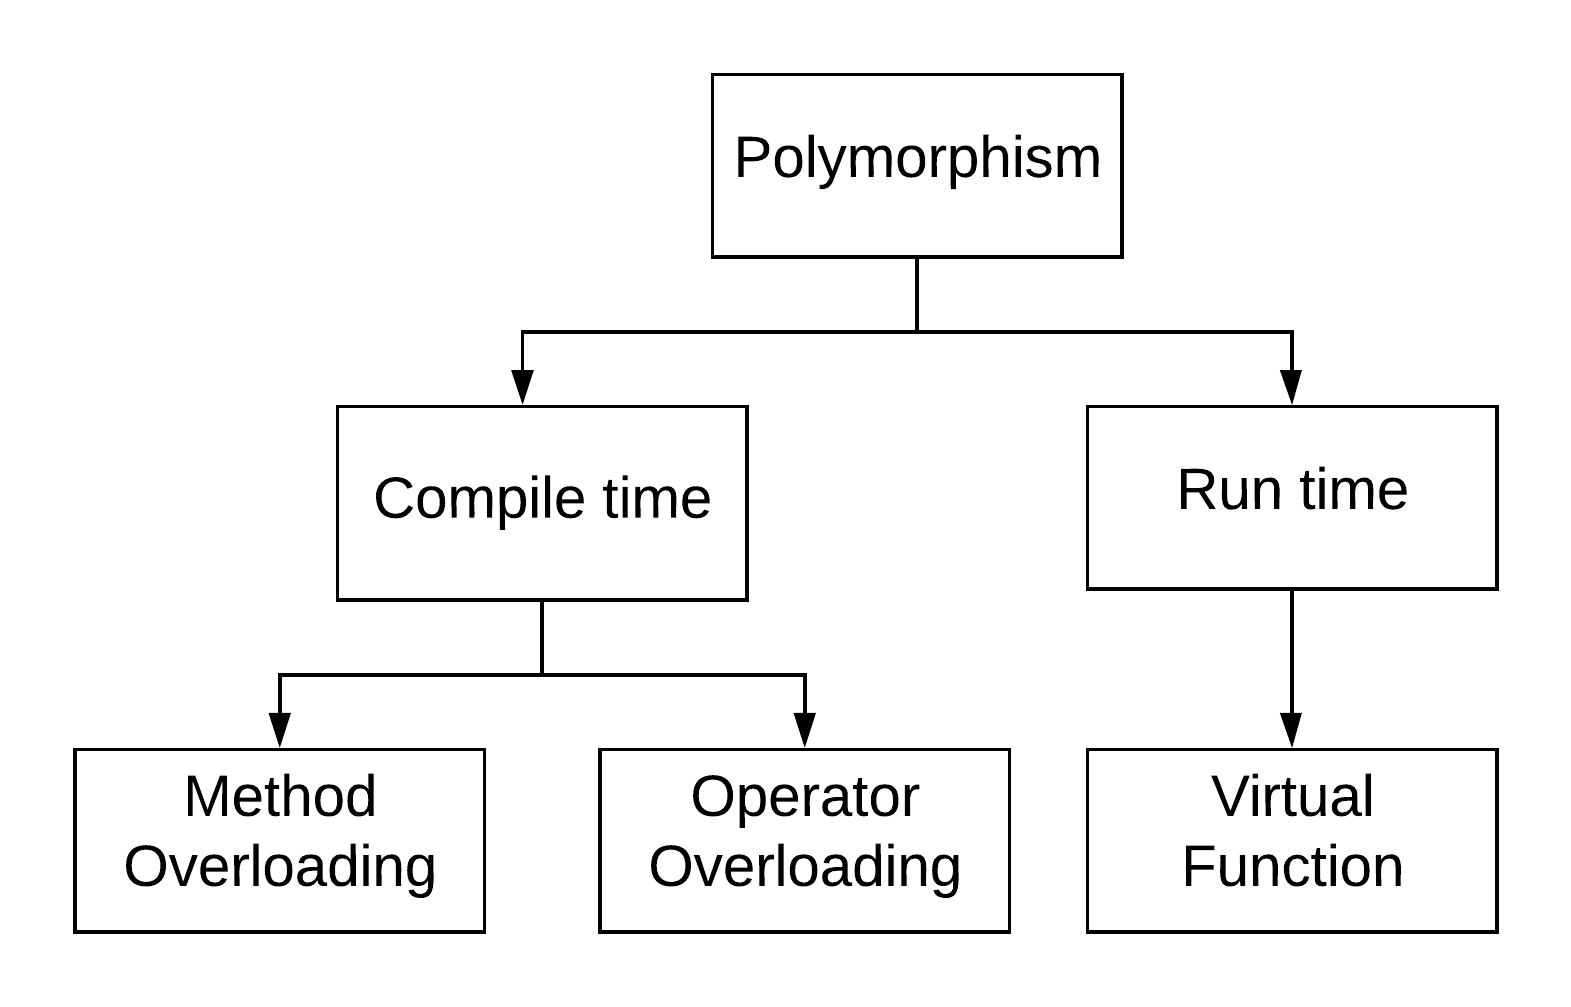
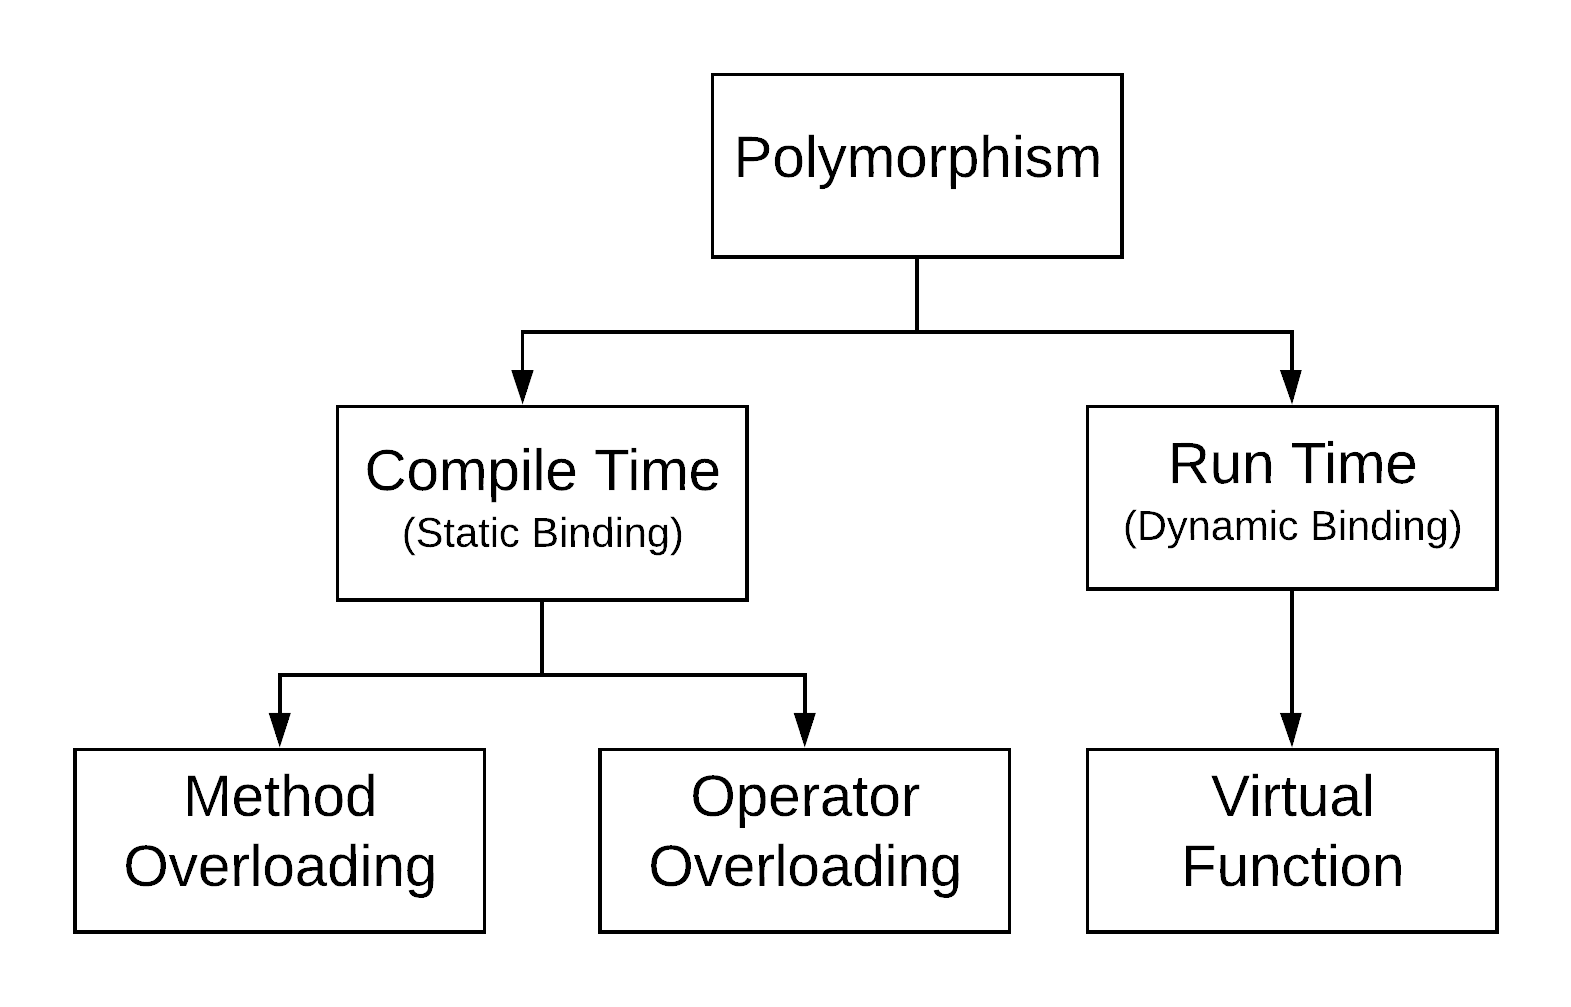
Add virtual function stuff

Changed region(s): [[0.2183, 0.431, 0.4679, 0.5541], [0.7174, 0.431, 0.9357, 0.5541], [0.156, 0.7696, 0.1871, 0.8004]]

diff --git a/lang/cpp/cpp-note.md b/lang/cpp/cpp-note.md
@@ -1,9 +1,14 @@
 # C++ Note
 
 ## Index
-* [Class](#class)
-  * [Constructor](#constructor)
-* [Polymorphism](#polymorphism)
+* [OOP](#oop)
+  * [Class](#class)
+    * [Constructor](#constructor)
+  * [Polymorphism](#polymorphism)
+    * [Polymorphism Structure](#polymorphism-structure)
+    * [Virtual Function](#virtual-function)
+      * [Pure Virtual Function and Abstract Class](#pure-virtual-function-and-abstract-class)
+      * [Virtual Destructor](#virtual-destructor)
 * [Container](#container)
   * [priority_queue](#priority_queue)
   * [map](#map)
@@ -26,8 +31,13 @@
 
 *** 
 
-## Class
-### Constructor
+## OOP
+OOP is the initials of the object-oriented programming. The three key ideas of OOP are:
+* **data abstraction**: separate the interface from implementation 
+* **inheritance**: model the relationships among similar types
+* **dynamic binding**: improve the flexibility
+### Class
+#### Constructor
 ```cpp
 class Test {
  private:
@@ -50,14 +60,33 @@ In the version 2, the class members are explicitly initialized in the constructo
 </br>
 Tips: develop a habit of using the constructor initializer list! It will avoid mistakes.
 
-***
 
-## Polymorphism
-Polymorphism means "many forms" derived from a Greek word. This is one of the key ideas of the Object Oriented Programming(OOP). </br>
-### Polymorphism Structure </br>
+### Polymorphism
+Polymorphism means "many forms" derived from a Greek word. This is one of the key ideas of the Object Oriented Programming(OOP). This is achieved by static(early) binding and dynamic(late) binding in C++. </br>
+#### Polymorphism Structure
 ![polymorphisom](./picture/polymorphism.png)
+#### Virtual Function
+Link: [GeeksforGeeks: Virtual Function in C++](https://www.geeksforgeeks.org/virtual-function-cpp/) </br>
+Virtual functions ensure that the correct function is called for an object, regardless of the type of reference (or pointer) used for function call. </br>
+Tips about virtual functions:
+  * Virtual functions cannot be `static` and also cannot be a `friend` function of another class.
+  * Virtual functions should be accessed using pointer or reference of base class type to achieve run time polymorphism.
+  * Virtual functions are not required to be overriden in the derived classes.
+##### Pure Virtual Function and Abstract Class
+```cpp
+class MyClass{
+ public:
+  virtual foo() = 0;
+};
+```
+The function *foo* is a pure virtual function(abstract functio) in *MyClass*. In this case, *MyClass* becomes an abstract class. </br>
+Tips about abstract classes:
+* Abstract classes cannot be instantiated.
+* A derived class will also be an abstract class if it does not redefine all pure virtual functions in the base class.
+##### Virtual Destructor
+A class should have a virtual destructor if it has a virtual function. This is to make sure that when the program delete a derived class using a pointer to the base class, the derived class can be deleted properly.
 
-### final specifier
+##### final specifier
 * Applied to a member function </br>
   `final` is placed right after the function name. </br>
   When used in a `virtual` function declaration or definition, `final` ensures that the function is `virtual` and specifies that it **may not be overriden** by derived classes.
@@ -280,7 +309,6 @@ ostream& operator<<(ostream& out, T& t) {
     cout << sizeof(iptr) << " " << sizeof(chptr) << '\n'
     return 0;
   }
-  // Result: 8 8
   ```
 * Pointer is also passed by value.
   ```cpp
